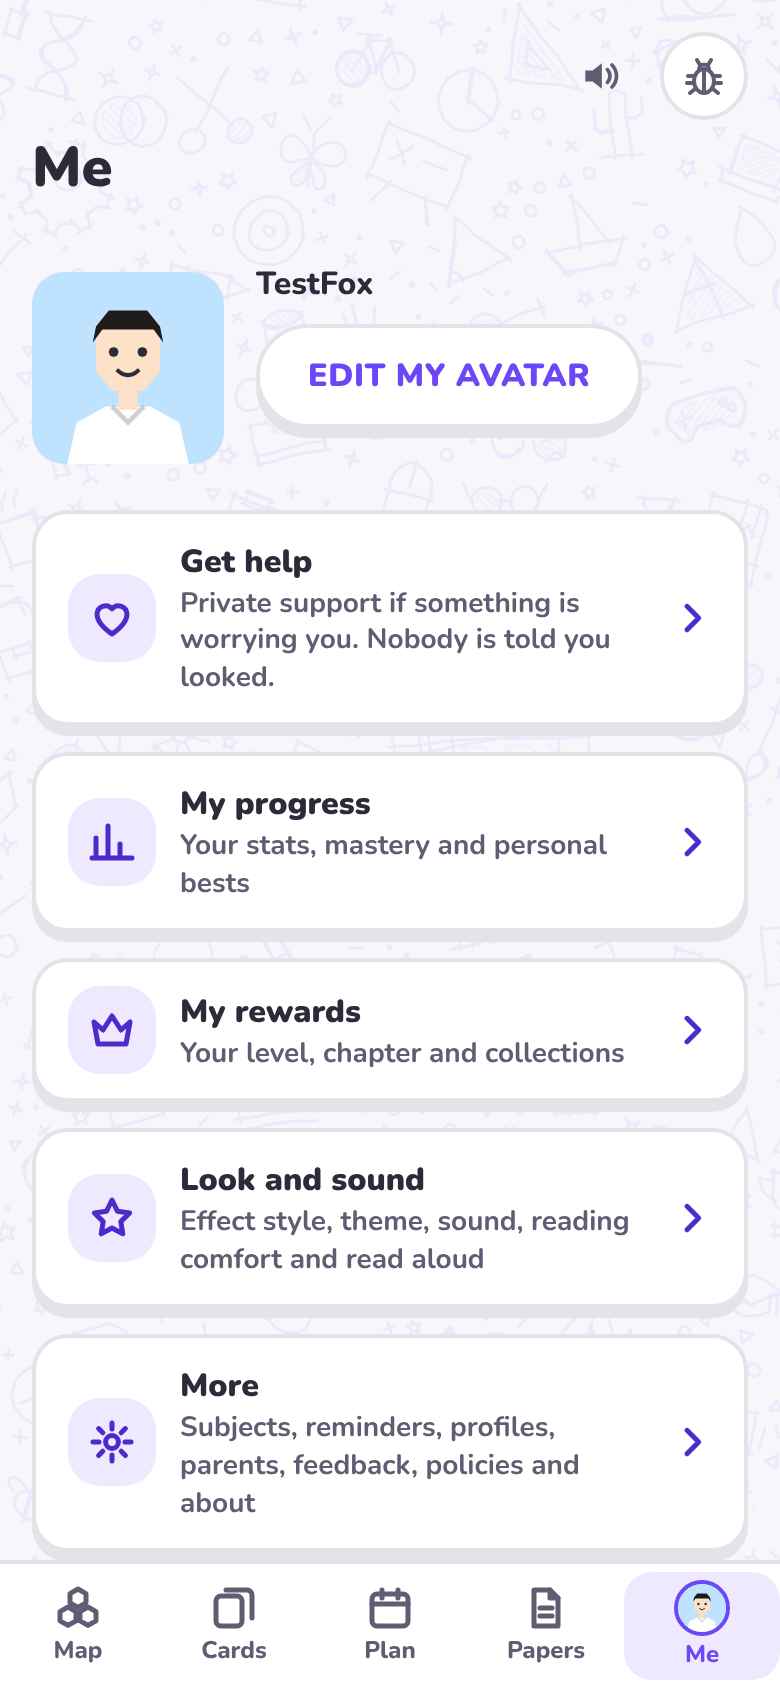
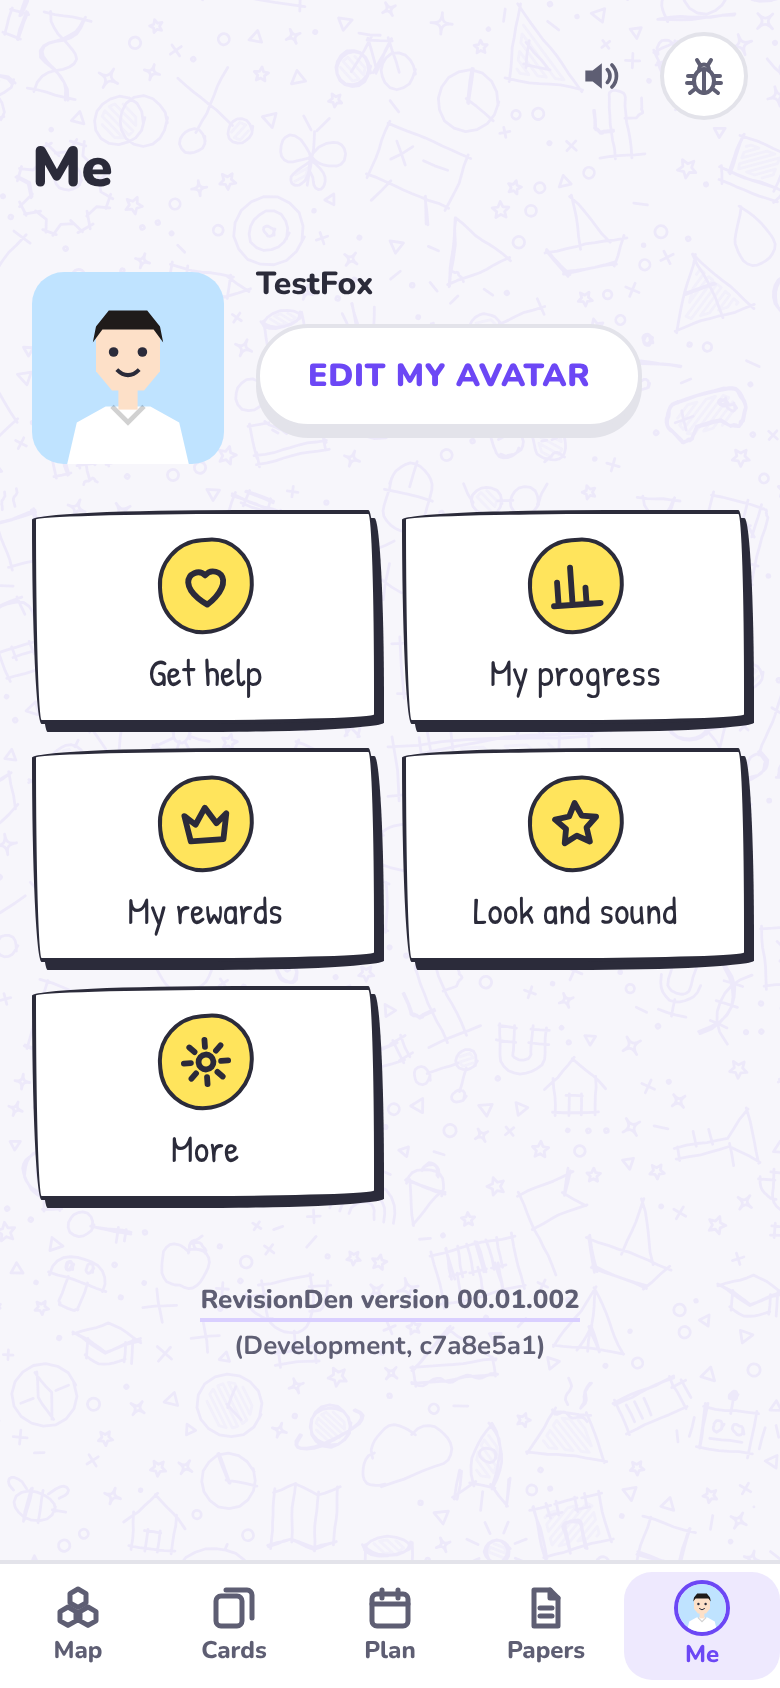
feat(web): W9b Me and More use J15a button tiles
Short 2-3 word labels with no helper sentences; Get help keeps its calm
help tone. Screenshots refreshed.

Claude-Session: https://claude.ai/code/session_01X3ktCo1jrVycBdGE6M9KMe

diff --git a/apps/web/src/pages/SettingsPage.tsx b/apps/web/src/pages/SettingsPage.tsx
@@ -13,7 +13,7 @@ import {
   StarIcon,
   UsersIcon,
 } from '../components/icons';
-import { LinkButton, LinkTile } from '../components/links';
+import { ButtonTile, ButtonTiles, LinkButton } from '../components/links';
 import { useBugButton } from '../features/feedback/bugButtonContext';
 import { DeviceReminders } from '../features/notifications';
 import { AppearanceSettingsCard } from '../features/appearance';
@@ -37,68 +37,23 @@ export function SettingsPage() {
     <div className="stack">
       <h1>Me</h1>
       <MeHeader />
-      {/* Tapping Get help only opens the private Get help page; nothing is recorded. */}
-      <ul className="link-tiles">
-        <li>
-          <LinkTile
-            to="/help"
-            icon={<HeartIcon />}
-            title="Get help"
-            description="Private support if something is worrying you. Nobody is told you looked."
-          />
-        </li>
-        <li>
-          <LinkTile
-            to="/progress"
-            icon={<ProgressIcon />}
-            title="My progress"
-            description="Your stats, mastery and personal bests"
-          />
-        </li>
-        <li>
-          <LinkTile
-            to="/rewards"
-            icon={<CrownIcon />}
-            title="My rewards"
-            description="Your level, chapter and collections"
-          />
-        </li>
+      {/* Tapping Get help only opens the private Get help page; nothing is recorded. Short
+          labels, no helper sentences (owner, 2026-11-26, J15a). */}
+      <ButtonTiles label="Me">
+        <ButtonTile to="/help" icon={<HeartIcon />} label="Get help" tone="help" />
+        <ButtonTile to="/progress" icon={<ProgressIcon />} label="My progress" />
+        <ButtonTile to="/rewards" icon={<CrownIcon />} label="My rewards" />
         {/* A parent on this page (no student on the device) gets their way home straight away. */}
-        {!student && (
-          <li>
-            <ParentHomeTile />
-          </li>
-        )}
-        <li>
-          <LinkTile
-            to="/settings/look-and-sound"
-            icon={<StarIcon />}
-            title="Look and sound"
-            description="Effect style, theme, sound, reading comfort and read aloud"
-          />
-        </li>
-        <li>
-          <LinkTile
-            to="/settings/more"
-            icon={<SettingsIcon />}
-            title="More"
-            description="Subjects, reminders, profiles, parents, feedback, policies and about"
-          />
-        </li>
-      </ul>
+        {!student && <ParentHomeTile />}
+        <ButtonTile to="/settings/look-and-sound" icon={<StarIcon />} label="Look and sound" />
+        <ButtonTile to="/settings/more" icon={<SettingsIcon />} label="More" />
+      </ButtonTiles>
     </div>
   );
 }
 
 function ParentHomeTile() {
-  return (
-    <LinkTile
-      to="/parent"
-      icon={<HomeIcon />}
-      title="Parent home"
-      description="Stats, rewards you set and reminders"
-    />
-  );
+  return <ButtonTile to="/parent" icon={<HomeIcon />} label="Parent home" />;
 }
 
 function BackToMe() {
@@ -137,15 +92,10 @@ export function MoreSettingsPage() {
           <li>
             <InstallButton />
           </li>
-          <li>
-            <LinkTile
-              to="/family"
-              icon={<UsersIcon />}
-              title="Switch profile"
-              description="Choose who is revising"
-            />
-          </li>
         </ul>
+        <ButtonTiles>
+          <ButtonTile to="/family" icon={<UsersIcon />} label="Switch profile" />
+        </ButtonTiles>
         <label className="feedback__toggle">
           <input
             type="checkbox"
@@ -159,68 +109,28 @@ export function MoreSettingsPage() {
         </p>
       </Card>
       <Card title="Parents">
-        <ul className="link-tiles">
-          <li>
-            <ParentHomeTile />
-          </li>
-          <li>
-            <LinkTile
-              to="/ask-a-parent"
-              icon={<UsersIcon />}
-              title="Ask a parent to raise something"
-              description="If something feels wrong or unfair"
-            />
-          </li>
-        </ul>
+        <ButtonTiles>
+          <ParentHomeTile />
+          <ButtonTile to="/ask-a-parent" icon={<UsersIcon />} label="Ask a parent" />
+        </ButtonTiles>
       </Card>
       <Card title="Feedback">
-        <ul className="link-tiles">
-          <li>
-            <LinkTile
-              to="/feedback"
-              state={{ from: '/settings/more' }}
-              icon={<ChatIcon />}
-              title="Send feedback or report a bug"
-              description="Tell us what to fix or add"
-            />
-          </li>
-          <li>
-            <LinkTile
-              to="/feedback/mine"
-              icon={<DocumentIcon />}
-              title="Your feedback"
-              description="What you sent and what happened"
-            />
-          </li>
-          <li>
-            <LinkTile
-              to="/feedback/family"
-              icon={<UsersIcon />}
-              title="Your family's feedback (parents)"
-              description="Everything your family sent"
-            />
-          </li>
-        </ul>
+        <ButtonTiles>
+          <ButtonTile
+            to="/feedback"
+            state={{ from: '/settings/more' }}
+            icon={<ChatIcon />}
+            label="Send feedback"
+          />
+          <ButtonTile to="/feedback/mine" icon={<DocumentIcon />} label="My feedback" />
+          <ButtonTile to="/feedback/family" icon={<UsersIcon />} label="Family feedback" />
+        </ButtonTiles>
       </Card>
       <Card title="Policies and about">
-        <ul className="link-tiles">
-          <li>
-            <LinkTile
-              to="/legal"
-              icon={<ShieldIcon />}
-              title="Policies"
-              description="Privacy and terms in plain English"
-            />
-          </li>
-          <li>
-            <LinkTile
-              to="/about"
-              icon={<InfoIcon />}
-              title="About RevisionDen"
-              description="Version and what's new"
-            />
-          </li>
-        </ul>
+        <ButtonTiles>
+          <ButtonTile to="/legal" icon={<ShieldIcon />} label="Policies" />
+          <ButtonTile to="/about" icon={<InfoIcon />} label="About" />
+        </ButtonTiles>
       </Card>
       <ParentCanSee />
       <BackToMe />

diff --git a/apps/web/src/pages/SettingsPage.test.tsx b/apps/web/src/pages/SettingsPage.test.tsx
@@ -26,6 +26,21 @@ describe('Me (the /settings page, W9)', () => {
     ]);
   });
 
+  it('shows them as chunky button tiles with short labels and no helper sentences (J15a)', async () => {
+    renderRoute('/settings');
+    await screen.findByRole('heading', { level: 1, name: 'Me' });
+    const main = screen.getByRole('main');
+    const names = within(main)
+      .getAllByRole('link')
+      .map((a) => a.textContent?.trim());
+    expect(names).toEqual(['Get help', 'My progress', 'My rewards', 'Look and sound', 'More']);
+    for (const name of names) {
+      expect(within(main).getByRole('link', { name: name! })).toHaveClass('button-tile');
+    }
+    expect(within(main).getByRole('link', { name: 'Get help' })).toHaveClass('button-tile--help');
+    expect(main.querySelector('.link-tile__description')).toBeNull();
+  });
+
   it('keeps the long settings off the main page', async () => {
     renderRoute('/settings');
     await screen.findByRole('heading', { level: 1, name: 'Me' });
@@ -75,6 +90,18 @@ describe('More (W9)', () => {
       '/about',
     ]) {
       expect(hrefs).toContain(href);
+    }
+    for (const name of [
+      'Switch profile',
+      'Parent home',
+      'Ask a parent',
+      'Send feedback',
+      'My feedback',
+      'Family feedback',
+      'Policies',
+      'About',
+    ]) {
+      expect(screen.getByRole('link', { name })).toHaveClass('button-tile');
     }
     expect(screen.getByRole('checkbox', { name: 'Show the bug button' })).toBeInTheDocument();
     expect(screen.getByRole('link', { name: /Back to Me/ })).toHaveAttribute('href', '/settings');

diff --git a/CHANGELOG.md b/CHANGELOG.md
@@ -7,6 +7,7 @@ Every push to `main` bumps the version automatically; add entries under **Unrele
 
 ### What's new
 
+- The Me page and its More page now use big, easy-to-tap buttons with short names, in the same style as the rest of the app.
 - The Me page is simpler and you can now change your own avatar: tap **Edit my avatar** at the top, change anything you've unlocked and Save, and your new look shows straight away (including on the Me button). Get help is still first, then My progress and My rewards. Look and sound settings, and everything else, now have their own pages, so Me fits on one screen.
 - On the topic map, going past your daily goal now says "Goal smashed!" with a star, instead of an odd fraction like 195 / 50. The subject and unit rows also open with every visible chip whole, instead of one cut off at the left edge.
 - Parent home and the Policies page now use big, chunky buttons with an icon and a short name, instead of long rows of text. Each effect style gives them its own look (for example a hand-drawn sticker in Doodle Diary, glossy candy in Pop Burst, an 8-bit block in Pixel Arcade), and the page they open slides in with that style's own move, which plays backwards when you go back. Get help still opens straight away, and nothing moves if your device asks for reduced motion.
@@ -217,6 +218,7 @@ Every push to `main` bumps the version automatically; add entries under **Unrele
 
 ### Added
 
+- W9b: Me and More use J15a `ButtonTiles` (2–3 word labels, no helper sentences; Get help `tone="help"`); screenshots in `docs/design/w9/` refreshed.
 - W9 Me page redesign: `features/me` (`MeHeader`, `MyAvatarProvider` shared by the nav's Me item and the page), `/settings/look-and-sound` and `/settings/more`, `getMe()` in the onboarding client (existing `GET /v1/student/me`), e2e `me-page.spec.ts`; `/progress` back in the 320px/200% nav check (K fixed its overflow in #235). Screenshots in `docs/design/w9/`.
 - S3-A-H hints, batch 1: a `hint` on all 47 A1 to A4 Algebra items that lacked one (a nudge toward the method, grounded in each item's steps and explanation) and a fixed A18-0103 hint that named a solution. A1-0101, A1-0103, A1-0106 and A1-0112 also cite the exact A1 bullet they test (the stricter OpenAI review refused the stem-only quote). Reviewed with OpenAI gpt-5.4, as Gemini returned HTTP 402. Batch 2: hints on all 58 A5 to A9 items that lacked one; A9-0101, A9-0102 and A9-0110 also cite A10 (gradients), A6-0105 now reads "Simplify (x + 4)^2 - (x - 4)^2." and also cites A4, and A6-0102's explanation gives a counter-example; A6-0101 needs individual approval (the OpenAI reviewer misreads its 0-based option three times). Batch 3: hints on all 52 A10 to A14 items, all reviewed; A11-0108, A12-0107 (now "For y = tan x, ..."), A13-0105 and A13-0107 reworded after review, A14-0105 also cites A2, and A14-0107 needs individual approval (the reviewer twice misread its correct completed square). Batch 4: hints on all 53 A15 to A19 items, all reviewed and passed. Batch 5: hints on all 64 A20 to A25 items, all reviewed; A21-0103, A21-0105 and A21-0107 mark schemes now accept equivalent and alternative valid methods, and A20-0104 needs individual approval (the reviewer twice miscalculated x_2, which is 1.90497). Every Algebra item now has a hint. Six Algebra questions (A1-0103, A1-0104, A1-0111, A4-0102, A4-0103, A25-0109) now say "Use the Power key (^) for powers" to match the F9 answer box (blind answer and review passed). `pnpm content:validate` now refuses a hint that contains the item's final answer (`scripts/content/hint-check.mjs`, rule in docs/VERIFICATION.md "Hints"). It reads numbers the way marking does (standard form, mixed numbers, fractions, thousands separators), so a hint giving 640000000 for a 6.4 × 10^8 answer is refused, and a number is only exempt when the question shows it written the same way.
 - Button tiles and page transitions (J15a, owner request 2026-11-26): `ButtonTile`/`ButtonTiles` in `components/links.tsx` (icon over a short label, optional badge, `tone="help"`; a grid, two to a row on phones), styled per effect style in each style sheet; parent home and `/legal` use them. `PageTransition` (`features/juice/transitions/`, mounted in `EffectStyleRoute`) plays the style's `page-enter` animation on `#main` when a tile opens a page and `page-enter--back` on Back (at most 350ms, transform and opacity only; none for Get help or with reduced motion). e2e: every style's transition both ways, axe AA for both pages in all 7 styles in light and dark, 320px at 200%, reduced motion. Also fixes dark-mode form error text (`.field__error` now uses the danger edge colour, AA). Mockups and a recording in `docs/design/j15a/`.

diff --git a/docs/PRODUCT_RULES.md b/docs/PRODUCT_RULES.md
@@ -941,12 +941,14 @@ own avatar." The page is now short enough for one phone screen (390 × 844):
   server says yes. The API's only rule is that every item is unlocked (locked items need their
   reward); there is no parent approval and no rate limit. The nickname comes from
   `GET /v1/student/me`.
-- **Then:** Get help (always the first link on the page), My progress, My rewards.
+- **Then:** Get help (always the first link on the page), My progress, My rewards, Look and sound, More, as J15a button tiles: an icon over a 2–3 word label, no helper sentences (owner, 2026-11-26). Get help uses `tone="help"` (calm, no page transition).
 - **Look and sound** (`/settings/look-and-sound`): Reading comfort, Appearance (theme), Effect style
   (students only; its picker is unchanged), Read aloud, Sound (with vibration).
 - **More** (`/settings/more`): My subjects, Reminders, This device (install, Switch profile, Show
   the bug button), Parents (Parent home, Ask a parent), Feedback (send, yours, your family's),
-  Policies and About, and What your parent can see. Both sub-pages end with "Back to Me".
+  Policies and About, and What your parent can see. Links there are button tiles too (Switch profile,
+  Parent home, Ask a parent, Send feedback, My feedback, Family feedback, Policies, About); the
+  install button keeps its own control. Both sub-pages end with "Back to Me".
 - A parent on `/settings` (no student on the device) sees no avatar header, and gets a Parent home
   tile on the main page as well as in More.
 - Code: `apps/web/src/pages/SettingsPage.tsx`, `apps/web/src/features/me/` (`MeHeader`,

diff --git a/project_memory/domain/product-facts.md b/project_memory/domain/product-facts.md
@@ -212,7 +212,7 @@ Tags: #product #rules #limits #defaults
   phone screen: avatar, nickname and **Edit my avatar** (E's builder in a sheet; Save, or Cancel
   with a "Throw away your changes?" check; the nav avatar updates at once; the API only checks
   items are unlocked, no parent approval or rate limit), then Get help, My progress, My rewards,
-  and two sub-pages: Look and sound (`/settings/look-and-sound`: reading comfort, appearance,
+  as button tiles with 2–3 word labels (J15a), and two sub-pages: Look and sound (`/settings/look-and-sound`: reading comfort, appearance,
   effect style, read aloud, sound) and More (`/settings/more`: subjects, reminders, device,
   parents, feedback, policies, about, what your parent can see). A parent on `/settings` gets a
   Parent home tile instead of the avatar header. Items share the bar and
